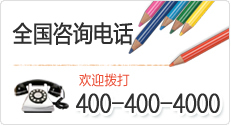
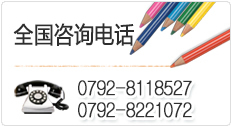
更改联系电话和电子邮箱

diff --git a/web/public/theme/default/common/layout.css b/web/public/theme/default/common/layout.css
@@ -30,10 +30,10 @@
 	height:126px;
 	background:url(SidebarPhoneNumber.jpg) no-repeat;
 }
-#SidebarActivity{/*侧边栏专题活动,后面要改成邮箱*/
+#SidebarEmail{/*侧边栏专题活动,后面要改成邮箱*/
 	width:231px;
 	height:93px;
-	background:url(SidebarActivity.jpg) no-repeat;
+	background:url(SidebarEmail.jpg) no-repeat;
 }
 
 #SideArticleColumn{/*栏目页的图片容器旁边的栏目*/

diff --git a/web/module/Web/src/Web/Controller/IndexController.php b/web/module/Web/src/Web/Controller/IndexController.php
@@ -25,9 +25,9 @@ class IndexController extends WebBaseController
     	//第一步:得到首页幻灯片的内容
     	$javascriptSlideViewModel = new JavascriptSlideControl($serviceLocator);
     	$javascriptSlideViewModel	->setImageBasePath('theme/default/common/slide');
-    	$javascriptSlideViewModel	->addSlideElement(1,'测试标题1','测试标题1的相关描述','1.jpg','/category-13.html')
-    								->addSlideElement(2,'测试标题2','测试标题2的相关描述','2.jpg','/category-14.html')
-    								->addSlideElement(3,'测试标题3','测试标题3的相关描述','3.jpg','/category-23.html');
+    	$javascriptSlideViewModel	->addSlideElement(1,'康润业务',null,'1.jpg','/category-13.html')
+    								->addSlideElement(2,'关于康润',null,'2.jpg','/category-14.html')
+    								->addSlideElement(3,'康润团队',null,'3.jpg','/category-23.html');
     								
     	$javascriptSlideViewModel->componentRender();
     	

diff --git a/web/module/Cms/src/Cms/Component/Article/ListControl/Model/Article.php b/web/module/Cms/src/Cms/Component/Article/ListControl/Model/Article.php
@@ -32,7 +32,6 @@ class Article extends BaseModel
     	$where = new Where();
     	$where->in('article_sort_id', $categoryId);
     	
-    	
     	$select = new Select();
 		$select->from($this->table);
 		$select->columns($column);
